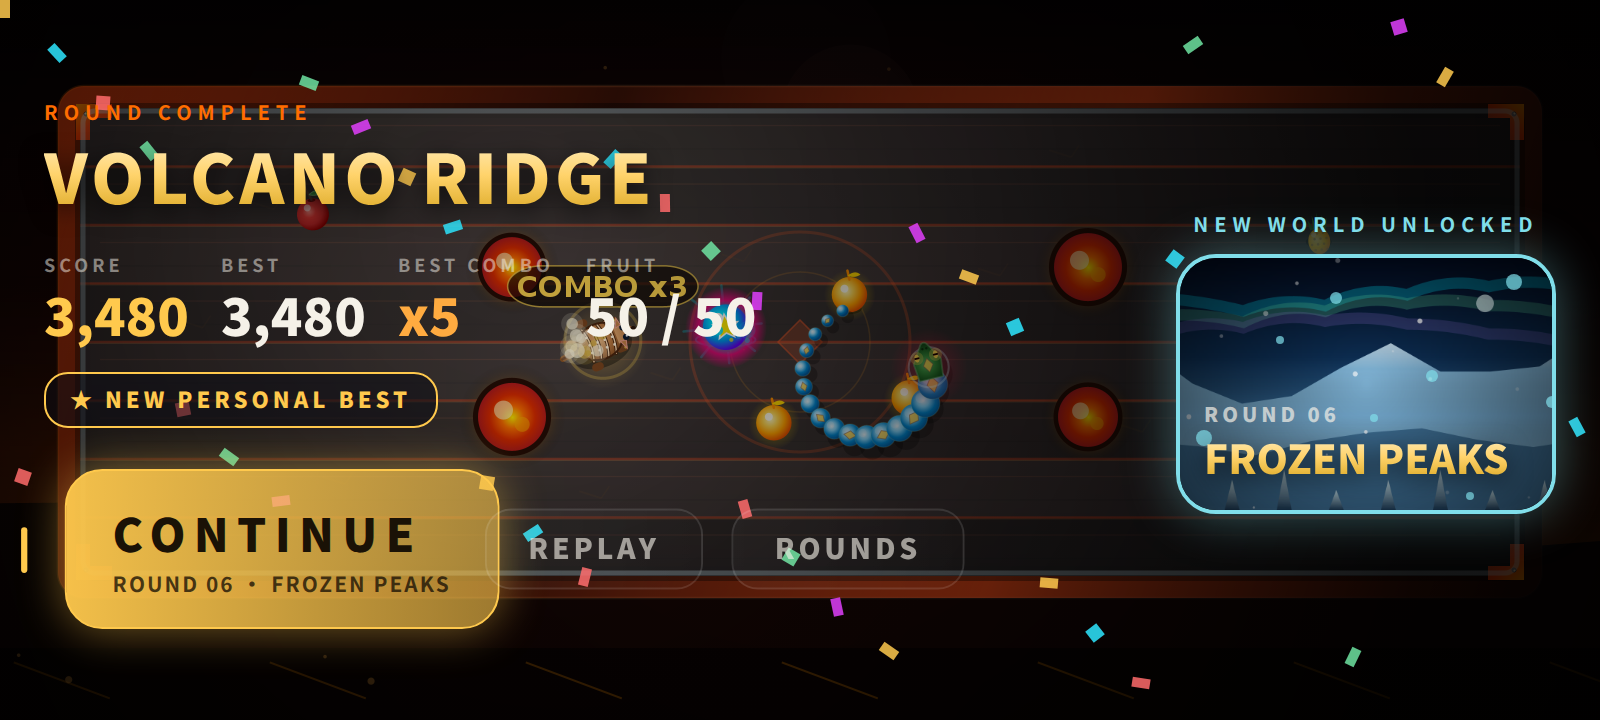
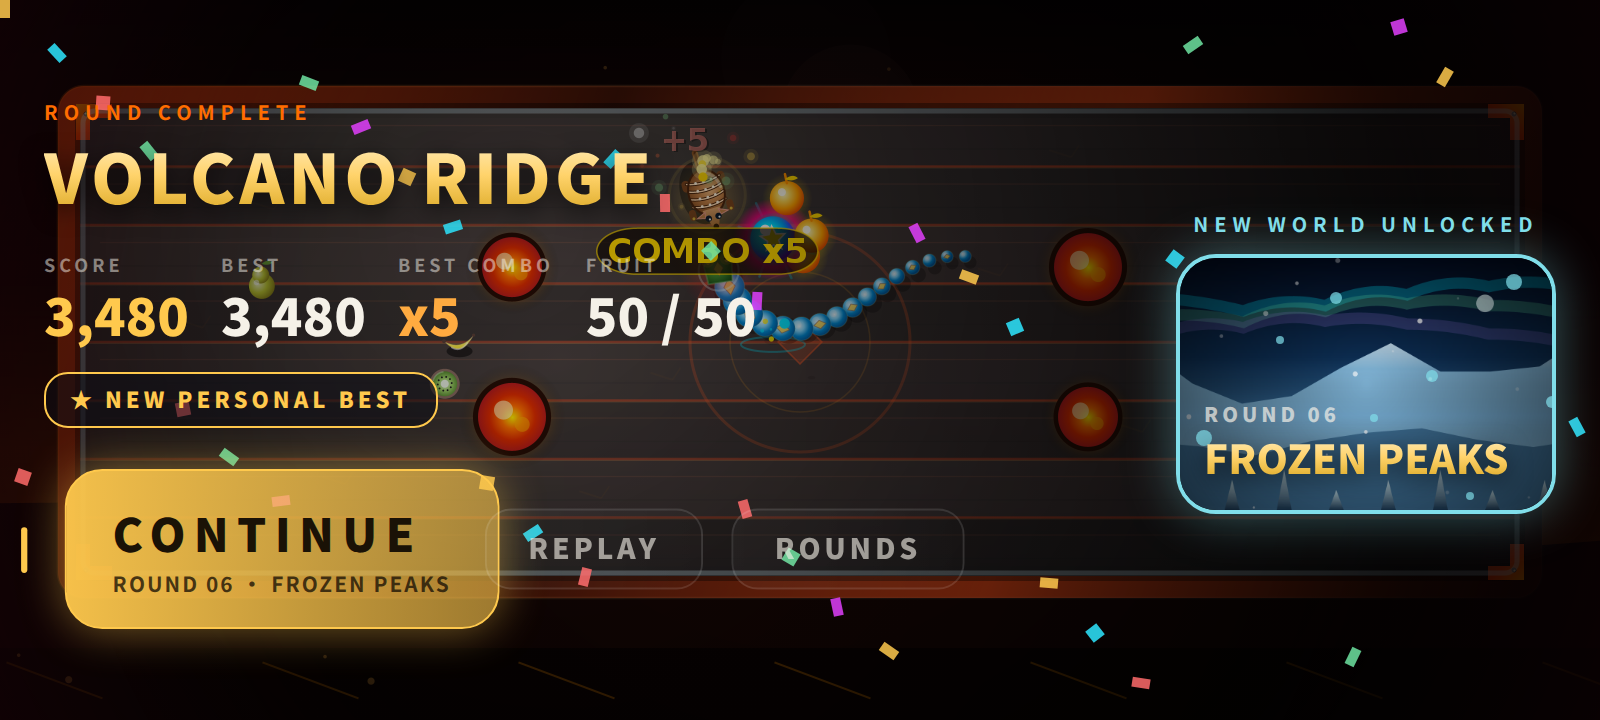
fix: round-select overlap, combo badge collision, home snake placement, richer jungle
- Round Select: card band sized between top bar and PLAY bar (no overlap); compact stats row
  (subtitle + difficulty on one line, TARGET/BEST/LIVES fit without wrapping)
- Combo badge moved below the armadillo; 'xN COMBO' floating label only on a new combo level
- Home: distant snake moved out from behind the menu column
- Whispering Jungle: canopy sun glow, layered canopy, palm silhouettes, foreground leaves
- Refresh docs/preview images

Claude-Session: https://claude.ai/code/session_01NqqqnuJHDtj6Lop9y93xVA

diff --git a/app/src/main/java/com/example/game/WorldRenderer.kt b/app/src/main/java/com/example/game/WorldRenderer.kt
@@ -225,11 +225,22 @@ object WorldRenderer {
                 }
             }
             StageTheme.JUNGLE -> {
-                // Green light shafts through the canopy
-                for (k in 0 until 4) {
-                    val x = w * (0.18f + k * 0.22f) + sin(t * 0.3f + k) * w * 0.01f
+                // Misty sunlight breaking through a gap in the canopy
+                val gap = Offset(w * 0.58f, h * 0.22f)
+                scope.drawCircle(
+                    brush = Brush.radialGradient(
+                        colors = listOf(Color(0x66FFF59D), Color(0x2269F0AE), Color.Transparent),
+                        center = gap,
+                        radius = h * 0.55f
+                    ),
+                    radius = h * 0.55f,
+                    center = gap
+                )
+                // Green-gold light shafts through the canopy
+                for (k in 0 until 5) {
+                    val x = w * (0.14f + k * 0.19f) + sin(t * 0.3f + k) * w * 0.01f
                     scope.drawLine(
-                        color = pal.glow.copy(alpha = 0.07f + 0.03f * sin(t * 0.7f + k * 1.3f)),
+                        color = (if (k % 2 == 0) Color(0xFFFFF59D) else pal.glow).copy(alpha = 0.08f + 0.04f * sin(t * 0.7f + k * 1.3f)),
                         start = Offset(x, 0f),
                         end = Offset(x - w * 0.12f, h),
                         strokeWidth = w * 0.05f
@@ -387,7 +398,9 @@ object WorldRenderer {
                 scope.drawPath(p, color = pal.far)
             }
             StageTheme.JUNGLE -> {
-                // Canopy domes
+                // Distant misty canopy layer behind the nearer canopy domes
+                val back = ridge(theme, 3, w, h, h * 0.42f, h * 0.16f, 2.1f, 14, true)
+                scope.drawPath(back, color = Color(0xFF1E5A3A))
                 val p = ridge(theme, 0, w, h, h * 0.5f, h * 0.22f, 5.3f, 12, true)
                 scope.drawPath(p, color = pal.far)
             }
@@ -427,6 +440,30 @@ object WorldRenderer {
                             topLeft = Offset(cx + b * w * 0.035f, cy - b % 2 * h * 0.015f),
                             size = Size(w * 0.07f, h * 0.035f)
                         )
+                    }
+                }
+            }
+            StageTheme.JUNGLE -> {
+                // Leaning palm silhouettes with swaying fronds
+                for (k in 0 until 3) {
+                    val baseX = w * (0.12f + k * 0.36f)
+                    val lean = if (k % 2 == 0) 1f else -1f
+                    val topX = baseX + lean * w * 0.05f
+                    val topY = h * (0.36f + (k % 2) * 0.06f)
+                    val trunk = Path()
+                    trunk.moveTo(baseX, h * 0.86f)
+                    trunk.quadraticTo(baseX + lean * w * 0.01f, h * 0.6f, topX, topY)
+                    scope.drawPath(trunk, color = pal.near, style = Stroke(width = w * 0.009f, cap = StrokeCap.Round))
+                    val sway = sin(t * 0.9f + k) * 0.08f
+                    for (f in 0 until 6) {
+                        val a = -2.9f + f * 0.55f + sway
+                        val len = w * (0.07f + (f % 2) * 0.015f)
+                        val ex = topX + cos(a) * len
+                        val ey = topY + sin(a) * len * 0.55f + len * 0.25f
+                        val frond = Path()
+                        frond.moveTo(topX, topY)
+                        frond.quadraticTo(topX + cos(a) * len * 0.6f, topY + sin(a) * len * 0.6f - h * 0.02f, ex, ey)
+                        scope.drawPath(frond, color = pal.near, style = Stroke(width = w * 0.007f, cap = StrokeCap.Round))
                     }
                 }
             }
@@ -497,6 +534,23 @@ object WorldRenderer {
                 for (side in 0..1) {
                     val cx = if (side == 0) 0f else w
                     scope.drawOval(color = pal.near, topLeft = Offset(cx - w * 0.12f, h * 0.78f), size = Size(w * 0.24f, h * 0.28f))
+                }
+                // Broad foreground leaves along the bottom edge, with a few bright flowers
+                for (i in 0 until 9) {
+                    val lx = w * (i / 8f)
+                    val lw = w * 0.07f
+                    val lh = h * (0.09f + (i % 3) * 0.025f)
+                    val tilt = sin(t * 0.8f + i) * w * 0.004f
+                    val leaf = Path()
+                    leaf.moveTo(lx, h)
+                    leaf.quadraticTo(lx - lw * 0.6f + tilt, h - lh * 0.6f, lx + tilt, h - lh)
+                    leaf.quadraticTo(lx + lw * 0.6f + tilt, h - lh * 0.6f, lx, h)
+                    leaf.close()
+                    scope.drawPath(leaf, color = if (i % 2 == 0) Color(0xFF0B3A22) else pal.near)
+                    if (i % 3 == 1) {
+                        scope.drawCircle(color = Color(0xFFFF5252), radius = h * 0.011f, center = Offset(lx + tilt, h - lh - h * 0.006f))
+                        scope.drawCircle(color = Color(0xFFFFEB3B), radius = h * 0.004f, center = Offset(lx + tilt, h - lh - h * 0.006f))
+                    }
                 }
             }
             StageTheme.DESERT -> {

diff --git a/app/src/main/java/com/example/ui/RoundLibraryScreen.kt b/app/src/main/java/com/example/ui/RoundLibraryScreen.kt
@@ -134,8 +134,10 @@ fun RoundLibraryScreen(
             .testTag("round_select_screen")
     ) {
         val density = androidx.compose.ui.platform.LocalDensity.current
-        val cardH = maxHeight * 0.58f
-        val cardW = minOf(cardH.value * 1.34f, maxWidth.value * 0.52f).dp
+        // Card band sits between the top bar (~60dp) and the bottom action bar (~88dp) so the
+        // focused card never overlaps the PLAY button, even on short landscape phones.
+        val cardH = minOf(maxHeight.value * 0.56f, maxHeight.value - 160f).coerceAtLeast(150f).dp
+        val cardW = minOf(cardH.value * 1.42f, maxWidth.value * 0.52f).dp
         val spacingPx = with(density) { (cardW * 0.74f).toPx() }
 
         // 1. Full-screen world preview of the focused round (crossfades on focus change)
@@ -209,7 +211,7 @@ fun RoundLibraryScreen(
         Box(
             modifier = Modifier
                 .fillMaxSize()
-                .padding(top = 30.dp)
+                .padding(top = 60.dp, bottom = 88.dp)
                 .pointerInput(filter, spacingPx) {
                     detectHorizontalDragGestures(
                         onDragEnd = {
@@ -452,7 +454,7 @@ private fun RoundCard(
                 text = stage.name.uppercase(),
                 style = TextStyle(
                     brush = if (unlocked) ArmaUi.TitleBrush else Brush.verticalGradient(listOf(Color(0xFFBDBDBD), Color(0xFF757575))),
-                    fontSize = 28.sp,
+                    fontSize = 26.sp,
                     fontWeight = FontWeight.Black,
                     letterSpacing = 1.sp,
                     shadow = Shadow(color = Color(0xCC000000), offset = Offset(0f, 3f), blurRadius = 10f)
@@ -460,41 +462,42 @@ private fun RoundCard(
                 maxLines = 1,
                 overflow = TextOverflow.Ellipsis
             )
-            Text(
-                text = "${stage.icon}  ${stage.subtitle}",
-                color = ArmaUi.TextSecondary,
-                fontSize = 11.sp,
-                fontWeight = FontWeight.SemiBold,
-                maxLines = 1
-            )
-            VSpace(8.dp)
+            // Subtitle + difficulty on one line
             Row(verticalAlignment = Alignment.CenterVertically) {
-                Column {
-                    SectionLabel(text = "DIFFICULTY")
-                    VSpace(4.dp)
-                    DifficultyMeter(level = stage.difficultyLevel(), accent = accent)
-                }
-                HSpace(18.dp)
-                StatBlock(label = "TARGET", value = "${stage.targetFruits} FRUIT")
-                HSpace(18.dp)
+                Text(
+                    text = "${stage.icon}  ${stage.subtitle}",
+                    color = ArmaUi.TextSecondary,
+                    fontSize = 11.sp,
+                    fontWeight = FontWeight.SemiBold,
+                    maxLines = 1,
+                    overflow = TextOverflow.Ellipsis,
+                    modifier = Modifier.weight(1f)
+                )
+                HSpace(10.dp)
+                DifficultyMeter(level = stage.difficultyLevel(), accent = accent)
+            }
+            VSpace(8.dp)
+            // Compact stats row: fits the narrowest card without wrapping
+            Row(verticalAlignment = Alignment.Bottom, modifier = Modifier.fillMaxWidth()) {
+                StatBlock(label = "TARGET", value = "${stage.targetFruits} \uD83C\uDF4E")
+                HSpace(16.dp)
                 StatBlock(label = "BEST", value = if (bestScore > 0) "%,d".format(bestScore) else "—", valueColor = ArmaUi.Gold)
-                HSpace(18.dp)
+                HSpace(16.dp)
                 StatBlock(label = "LIVES", value = "${stage.maxAllowedLosses}")
+                Box(modifier = Modifier.weight(1f))
                 if (isFocused && onSettings != null) {
-                    HSpace(14.dp)
                     Box(
                         modifier = Modifier
                             .glassPanel(radius = 12.dp)
                             .consoleTap(onClick = onSettings)
-                            .padding(horizontal = 10.dp, vertical = 6.dp)
+                            .padding(horizontal = 9.dp, vertical = 6.dp)
                             .testTag("round_${stage.id}_settings")
                     ) {
                         Text(
-                            text = if (joystickRight) "⚙ STICK ▶" else "⚙ ◀ STICK",
+                            text = if (joystickRight) "\u2699 \u25B6" else "\u2699 \u25C0",
                             color = ArmaUi.TextSecondary,
-                            fontSize = 9.sp,
-                            fontWeight = FontWeight.Black,
-                            letterSpacing = 1.sp
+                            fontSize = 11.sp,
+                            fontWeight = FontWeight.Black
                         )
                     }
                 }

diff --git a/app/src/main/java/com/example/game/GameEngine.kt b/app/src/main/java/com/example/game/GameEngine.kt
@@ -2068,6 +2068,7 @@ class GameEngine(
      * per-armadillo effect the caller should apply.
      */
     private fun applyFruitPickup(apple: AppleItem): FruitEffect {
+        val prevCm = comboMultiplier()
         comboCount++
         comboTimer = COMBO_WINDOW
         val multiplier = comboMultiplier() * (if (scoreMultiplierTimer > 0f) 2 else 1)
@@ -2080,8 +2081,9 @@ class GameEngine(
 
         spawnFloatingText("+$gained", apple.pos, fruitAccentColor(apple.fruitType), sizeSp = if (gained >= 10) 22f else 16f)
         val cm = comboMultiplier()
-        if (cm >= 2) {
-            spawnFloatingText("x$cm COMBO", apple.pos + Vector2(0f, -20f), Color(0xFFFFEA00), sizeSp = 13f, riseSpeed = -34f)
+        // Only announce a NEW combo level; the persistent badge under the player shows the rest.
+        if (cm >= 2 && cm > prevCm) {
+            spawnFloatingText("x$cm COMBO", apple.pos + Vector2(0f, -30f), Color(0xFFFFEA00), sizeSp = 13f, riseSpeed = -34f)
         }
         if (cm > bestComboMultiplier) bestComboMultiplier = cm
         if (comboCount == 2 || comboCount == 4 || comboCount == 6 || comboCount == 8) {

diff --git a/app/src/main/java/com/example/ui/ConsoleHomeScreen.kt b/app/src/main/java/com/example/ui/ConsoleHomeScreen.kt
@@ -97,9 +97,10 @@ fun ConsoleHomeScreen(
             val w = size.width
             val h = size.height
 
-            // Snake in the distance, slithering across the right side
-            val sx = w * 0.76f + sin(t * 0.3f) * w * 0.07f
-            val sy = h * 0.70f + cos(t * 0.45f) * h * 0.015f
+            // Snake in the distance, slithering in the open ground between the title and the
+            // menu (kept clear of the menu column so it never sits behind a button)
+            val sx = w * 0.40f + sin(t * 0.3f) * w * 0.05f
+            val sy = h * 0.66f + cos(t * 0.45f) * h * 0.015f
             val sDir = cos(t * 0.3f)
             val sAngle = if (sDir >= 0f) 0f else Math.PI.toFloat()
             val back = if (sDir >= 0f) -1f else 1f
@@ -113,7 +114,7 @@ fun ConsoleHomeScreen(
                 slitherPhase = t * 7.5f,
                 tongueVisible = (t % 2.5f) < 0.45f
             )
-            withTransform({ scale(0.8f, 0.8f, Offset(sx, sy)) }) {
+            withTransform({ scale(0.7f, 0.7f, Offset(sx, sy)) }) {
                 TableRenderer.drawSnake(this, snake, Offset.Zero)
             }
 

diff --git a/app/src/main/java/com/example/game/TableRenderer.kt b/app/src/main/java/com/example/game/TableRenderer.kt
@@ -2039,7 +2039,7 @@ object TableRenderer {
     }
 
     /**
-     * Combo badge that floats just above the armadillo (instead of occupying the HUD).
+     * Combo badge that floats just below the armadillo (instead of occupying the HUD).
      * Escalates in colour and glow with the multiplier; gently pulses.
      */
     fun drawComboBadge(
@@ -2057,7 +2057,9 @@ object TableRenderer {
             else -> Color(0xFFFFD700)
         }
         val pulse = 1f + 0.06f * sin(time * 9f)
-        val y = center.y - 54f
+        // Sits BELOW the armadillo: "+N" score labels rise upward from eaten fruit, so the
+        // badge never collides with them.
+        val y = center.y + 56f
         if (multiplier >= 5) {
             scope.drawCircle(
                 brush = Brush.radialGradient(listOf(Color(0x66FFD700), Color.Transparent), center = Offset(center.x, y), radius = 46f),
